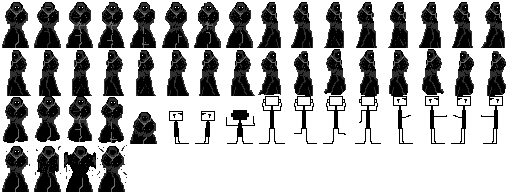
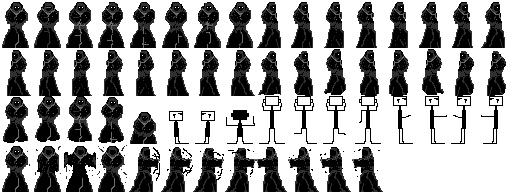
cleanup

Changed region(s): [[0.25, 0.75, 0.75, 1.0], [0.1562, 0.875, 0.1875, 0.9062]]

diff --git a/zaps.js b/zaps.js
@@ -32,18 +32,19 @@ Zaps.zap.common['right'] = function(game,zap,soul,dir) {
   var vx = 500; 
   if(dir == 'left') vx = vx * -1; 
   var bullet = zap.zap(game,soul); 
+  bullet.animations.play('zap');
   bullet.body.velocity.x = vx; 
   bullet.checkWorldBounds = true;
   bullet.outOfBoundsKill = true;
   game.zaps.add(bullet);
    
-  soul.animations.play('cast');
+  //soul.animations.play('cast');
   if(dir == 'left') {
-    //soul.animations.play('cast-left');
+    soul.animations.play('cast-left');
   } else if(dir == 'right') {
-    //soul.animations.play('cast-right');
+    soul.animations.play('cast-right');
   } else {
-    //soul.animations.play('cast');
+    soul.animations.play('cast');
   }
 }
 
@@ -55,7 +56,7 @@ Zaps.types = {};
 
 Zaps.types['missile'] = {
   preload:function(game) {
-    game.load.spritesheet('spell', 'debug/spell.png', 12, 12);
+    game.load.spritesheet('spell', 'debug/spell.png?'+Math.random(), 12, 12);
   },
   create:function(game,soul) {
     var m = {};
@@ -63,6 +64,7 @@ Zaps.types['missile'] = {
     m.db = Zaps.db();
     m.zap = function(game,soul) {
       var bullet = game.add.sprite(soul.x, soul.y, 'spell');
+      bullet.animations.add('zap',[0,1,2,3],12,true); 
       bullet.zap = m;
       game.physics.arcade.enable(bullet);
       bullet.body.gravity.y = -700;

diff --git a/souls.js b/souls.js
@@ -125,8 +125,8 @@ Soul.types['mage'] = {
       m.animations.add('open-right',[44,45],12,true);
       m.animations.add('open-left',[46,47],12,true);
       m.animations.add('cast',[48,49,50,51],12,true);
-      m.animations.add('cast-right',[56,57,58,59,60,61,62,63],12,true);
-      m.animations.add('cast-left',[65,66,67,68,69,70,71],12,true);
+      m.animations.add('cast-right',[52,53,54,55],12,true);
+      m.animations.add('cast-left',[56,57,58,59],12,true);
       game.physics.arcade.enable(m);
       m.body.collideWorldBounds = true;
       m.gamedb = Soul.gamedb();
